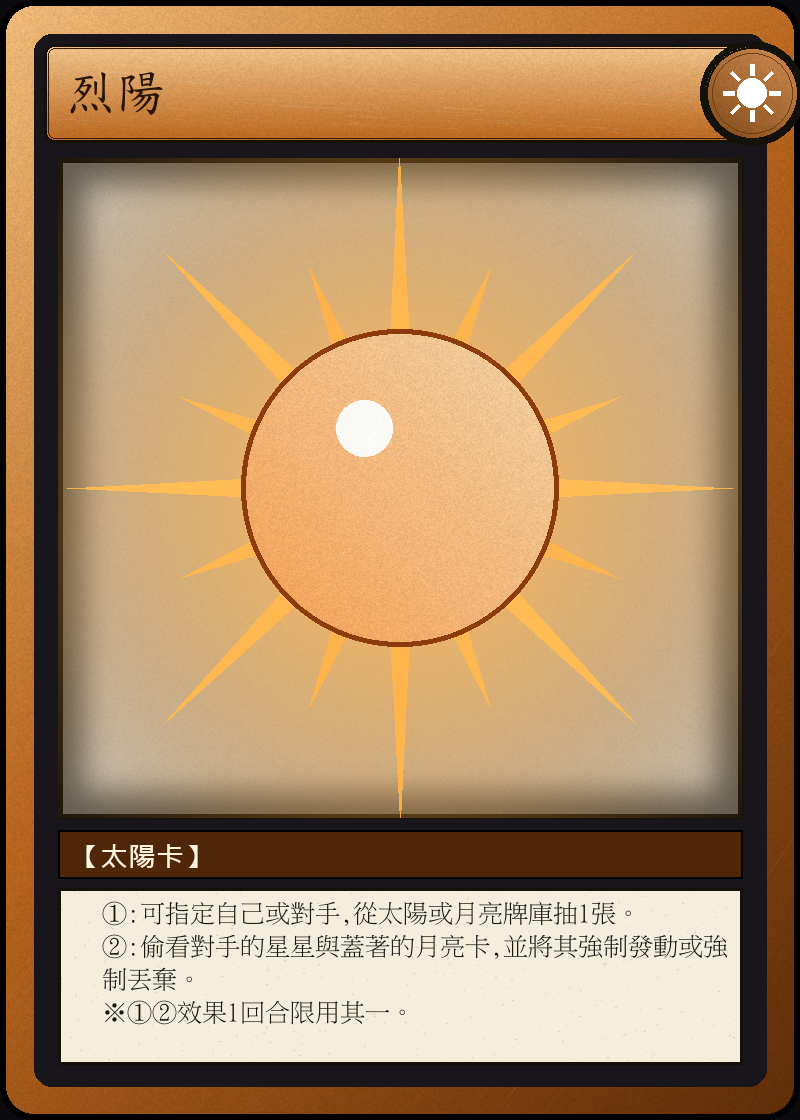
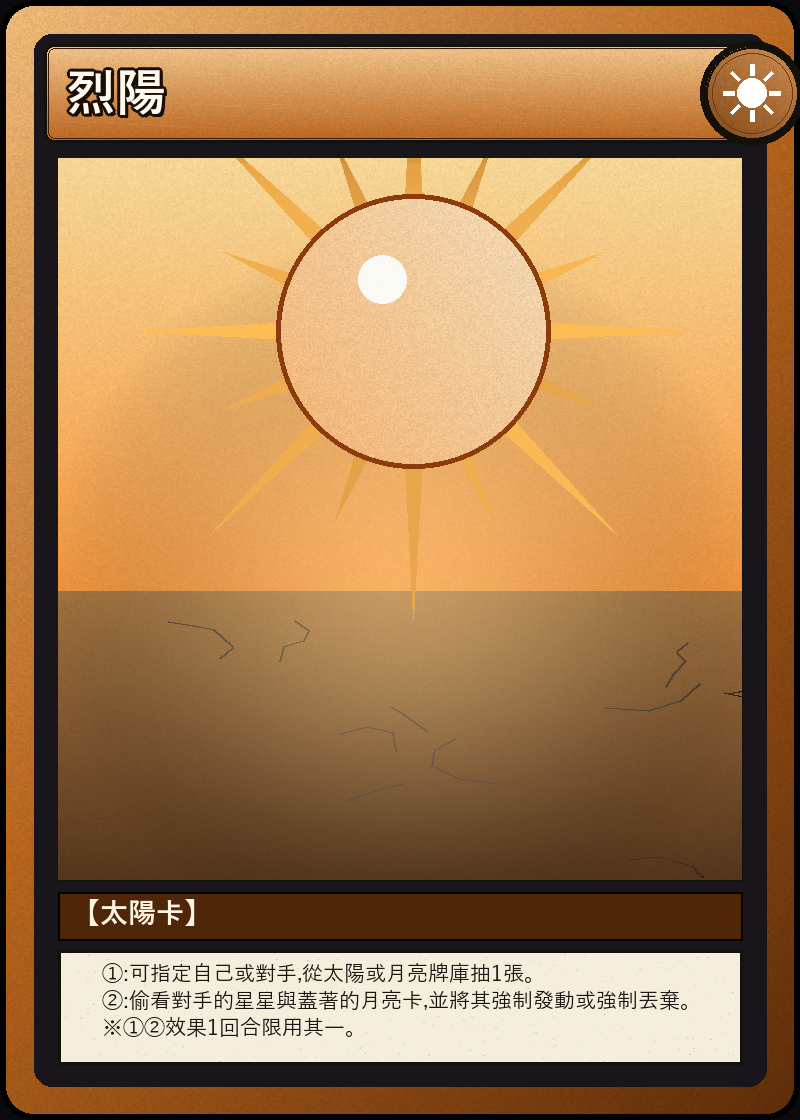
星星蓋牌照先後攻順序演出,卡牌美術第三輪大改:材質、字體、插畫全部重新設計
【出牌順序】
- 星星蓋牌改成真的照先攻/後攻順序進行(原本永遠是 p1 先蓋、跟先後攻無關),
  電腦先攻蓋星星卡時會先秀「OOO(難度)的回合」橫幅、演示蓋牌動畫,才輪到玩家蓋牌
- boardSnapshotFor 新增 starCommitted 是非旗標(只公開有沒有蓋牌,不洩漏蓋了什麼),
  取代原本「等我自己蓋牌才顯示對手蓋著」的錯誤 proxy 判斷

【卡牌效果文字精簡】(rules.js / rps_core.py / cardgen.py 三處同步)
- 石頭布剪刀只寫贏什麼,不寫輸/平
- 太陽升級卡拿掉贏平輸的括號說明跟「種類不符返回手牌」的細節
- 月亮卡拿掉「需事先蓋放」的說明(月亮卡規則本來就是要蓋放才能發動)

【卡牌美術第三輪】
- 邊框/名條/圓標改用拉絲金屬材質(雜訊+拉絲紋理),卡名疊描邊+陰影做成遊戲 Logo 式處理,
  取代原本的標楷體/細明體/正黑體,改用 Yu Gothic
- 石頭拿掉奇怪的玻璃高光;布/鈦合金布改成柔軟垂墜的布料輪廓,鈦合金額外加銳利硬邊;
  剪刀改成斜角開闔的帥氣姿勢;殞石頭改成從宇宙墜落、拖著大氣摩擦火焰的隕石場景;
  烈陽改成天空+太陽+乾裂大地的場景;日蝕沿用同一場景但加上咬向太陽的漫畫式霸氣狼頭剪影;
  偷變石頭改成驚喜箱彈出彈簧拳頭;偷變剪刀/布維持魔術師的手,加上袖口、火花、偷變布加煙霧
- 卡背拿掉所有文字(含 Logo 字樣),月亮卡背維持新月圖示,星星/太陽卡背徽章同步套用材質處理
- 整體遊戲畫面加強質感:背景加微光暈染、按鈕改立體漸層、面板加邊框陰影、回合數改徽章樣式

diff --git a/web/app.js b/web/app.js
@@ -186,6 +186,9 @@ function boardSnapshotFor(p, revealStar) {
     discardCount: p.discard.length,
     playedSun: p.playedSunCards.slice(),
     star: revealStar ? p.committedStar : null,
+    // 只公開「這回合已經蓋牌了嗎」的是非值,不洩漏蓋了什麼,讓對手畫面能正確演出
+    // 先攻方先把星星卡蓋到檯面上、後攻方才輪到蓋牌的順序
+    starCommitted: p.committedStar !== null,
     playedMoon: p.moonDecided ? p.playedMoonCard : null,
     moonPending: !p.moonDecided && p.pendingMoonCard !== null,
   };
@@ -358,17 +361,26 @@ function showCoinFlip(pub) {
   setTimeout(() => { overlay.classList.add("hidden"); }, 1850);
 }
 
-// 第 2 回合以後,先攻方逐回合輪替,用一個輕量橫幅提醒是誰先出牌(第 1 回合已經有硬幣動畫負責這件事)
-function showTurnOrderBanner(pub) {
-  if (typeof pub.firstIsP1 !== "boolean") return;
-  const firstName = pub.firstIsP1 ? pub.p1.name : pub.p2.name;
+const DIFF_LABEL = { easy: "簡單", normal: "普通", hard: "困難" };
+
+// 電腦先攻蓋星星卡時:先秀「OOO(難度)的回合」橫幅,橫幅收起後再演示一張牌背從對手那側
+// 飛到戰場星星欄位的蓋牌動畫,玩家才能實際看到電腦先出牌這件事,而不是畫面毫無變化
+function showOpponentStarSetTurn(pub, oppKey, oppCol) {
+  const name = pub[oppKey].name;
+  const diffLabel = (typeof game !== "undefined" && game && game.vsAi) ? (DIFF_LABEL[game.difficulty] || "") : "";
   const banner = document.createElement("div");
   banner.className = "turn-order-banner";
-  banner.textContent = `${firstName} 先攻`;
+  banner.textContent = diffLabel ? `${name}(${diffLabel})的回合` : `${name}的回合`;
   document.body.appendChild(banner);
   nextPaint(() => banner.classList.add("show"));
-  setTimeout(() => banner.classList.remove("show"), 750);
-  setTimeout(() => banner.remove(), 1050);
+  setTimeout(() => banner.classList.remove("show"), 500);
+  setTimeout(() => {
+    banner.remove();
+    const oppBand = $("oppBand");
+    const fromEl = (oppBand && oppBand.querySelector(".band-name")) || oppBand;
+    const starWrap = oppCol.querySelector('[data-slot-kind="star"]');
+    flyGhost(fromEl, starWrap, cardImgSrc("back_star"), "?");
+  }, 650);
 }
 
 // -- 戰鬥畫面特效:翻牌、太陽強化、月亮發動、勝負對撞 -----------------
@@ -382,10 +394,10 @@ function sleep(ms) {
 // 每行 log 之後都停一下讓畫面有時間播動畫,關鍵劇情點(開場硬幣、翻牌、出招、發動、抽牌、分出勝負)停久一點
 function delayForLogLine(text) {
   if (/^\n===== 第 1 回合 =====/.test(text)) return 1900; // 等開場硬幣動畫播完
-  if (/^\n===== 第 \d+ 回合 =====/.test(text)) return 900; // 等「OOO 先攻」橫幅播完
   let extra = 0;
   if (/^★ .+ 贏得本回合!$/.test(text) || /^平手!/.test(text)) extra = 550;
   else if (/取走 .+ 的一張『.+』星星卡。/.test(text)) extra = 600; // 星星被吸走的動畫要多留一點時間
+  else if (/ 蓋下星星卡。$/.test(text)) extra = 950; // 電腦先攻蓋星星卡:橫幅 + 蓋牌動畫要多留時間播完
   else if (/揭示星星:/.test(text)) extra = 200;
   else if (/打出太陽卡:/.test(text) || /打出【烈陽】!$/.test(text)) extra = 500; // 對手出牌會有飛入動畫,留多一點時間播完
   else if (/發動【.+】/.test(text)) extra = 500;
@@ -706,13 +718,18 @@ function triggerBattleEffects(prevPub, pub, oppKey, mineKey) {
   const sunImg = (col) => col.querySelector('[data-slot-kind="sun"] .slot-card-img');
   const moonImg = (col) => col.querySelector('[data-slot-kind="moon"] .slot-card-img');
 
-  // 0) 每回合開始:先攻方逐回合輪替,但太陽/月亮階段沒有牌可出時完全不會有任何畫面差異,
-  // 玩家會誤以為「後攻方才是第一個動作的人」。開場第 1 回合已經有硬幣動畫負責這件事,
-  // 這裡補上第 2 回合以後、每回合都要播一次的輕量橫幅,把先攻方明確秀出來。
-  for (const line of newLines) {
-    const roundMatch = line.match(/^\n===== 第 (\d+) 回合 =====/);
-    if (roundMatch && roundMatch[1] !== "1") {
-      showTurnOrderBanner(pub);
+  // 0) 對手(電腦)先攻蓋星星卡時,engine.js 會多印一行「OOO 蓋下星星卡。」,
+  // 藉此撥放「OOO(難度)的回合」橫幅 + 蓋牌動畫,玩家才能實際看到電腦先出牌,
+  // 而不是畫面上什麼都沒發生、直接跳到自己的出牌提示。自己出牌是靠互動提示本身就看得出來,不需要橫幅。
+  // 電腦(vsAi 模式的 p2)每回合的星星都是走 AI 分支、都會印這行 log,不管這回合是不是真的先攻,
+  // 所以一定要另外檢查 firstIsP1 確認「這次真的是對手先出手」,不然會不分先後攻每回合都誤觸發。
+  const oppIsFirst = (oppKey === "p1") === pub.firstIsP1;
+  if (oppIsFirst) {
+    for (const line of newLines) {
+      const setMatch = line.match(/^(.+) 蓋下星星卡。$/);
+      if (setMatch && setMatch[1] === pub[oppKey].name) {
+        showOpponentStarSetTurn(pub, oppKey, oppCol);
+      }
     }
   }
 
@@ -1165,14 +1182,11 @@ function showCardInfo(cardName) {
 function renderBattlefield(pub, oppKey, mineKey) {
   const bf = $("battlefield");
   bf.innerHTML = "";
-  // 星星是雙方同時蓋牌:在我自己都還沒蓋星星卡之前,對手欄位不該顯示「已經蓋著一張」,
-  // 不然不管先後攻,看起來都像對手已經搶先出牌了
-  const myStarCommitted = !!(lastPrivateSeen && lastPrivateSeen.committedStar);
-  bf.appendChild(battlefieldColumn(pub[oppKey], true, pub.starsRevealed, null, myStarCommitted));
-  bf.appendChild(battlefieldColumn(pub[mineKey], false, pub.starsRevealed, lastPrivateSeen, myStarCommitted));
+  bf.appendChild(battlefieldColumn(pub[oppKey], true, pub.starsRevealed, null));
+  bf.appendChild(battlefieldColumn(pub[mineKey], false, pub.starsRevealed, lastPrivateSeen));
 }
 
-function battlefieldColumn(snapshot, isOpp, starsRevealed, privateData, myStarCommitted) {
+function battlefieldColumn(snapshot, isOpp, starsRevealed, privateData) {
   const col = document.createElement("div");
   col.className = "bf-col";
   if (!snapshot) return col;
@@ -1197,8 +1211,9 @@ function battlefieldColumn(snapshot, isOpp, starsRevealed, privateData, myStarCo
   if (isOpp) {
     if (starsRevealed) {
       starContent = snapshot.star || null;
-    } else if (myStarCommitted) {
-      // 我自己蓋好星星卡了,對手那格才跟著顯示「蓋著」,在那之前維持空白
+    } else if (snapshot.starCommitted) {
+      // 對手自己真的已經蓋牌了才顯示「蓋著」,這個旗標只公開是非值、不洩漏蓋了什麼,
+      // 讓畫面能正確反映先攻/後攻順序(先攻方會先出現蓋著的星星卡)
       starContent = "?";
       starBack = true;
     }

diff --git a/web/style.css b/web/style.css
@@ -18,7 +18,11 @@ html, body { height: 100%; }
 
 body {
   margin: 0;
-  background: var(--bg);
+  background:
+    radial-gradient(ellipse 60% 40% at 15% 0%, rgba(59,110,165,0.16), transparent 60%),
+    radial-gradient(ellipse 55% 35% at 100% 15%, rgba(201,107,31,0.14), transparent 60%),
+    radial-gradient(ellipse 60% 45% at 50% 100%, rgba(106,63,160,0.14), transparent 60%),
+    var(--bg);
   color: var(--text);
   font-family: "Microsoft JhengHei", "PingFang TC", sans-serif;
 }
@@ -76,15 +80,20 @@ h1 { margin-bottom: 0; }
 .diff-buttons button { flex: 1; min-width: 60px; }
 
 button {
-  background: var(--accent);
+  background: linear-gradient(180deg, color-mix(in srgb, var(--accent) 100%, white 22%), var(--accent) 60%, color-mix(in srgb, var(--accent) 100%, black 25%));
   color: white;
-  border: none;
-  border-radius: 6px;
+  border: 1px solid rgba(0,0,0,0.35);
+  border-radius: 8px;
   padding: 10px 16px;
   font-size: 14px;
+  font-weight: bold;
+  text-shadow: 0 1px 2px rgba(0,0,0,0.5);
+  box-shadow: 0 2px 0 rgba(0,0,0,0.35), 0 3px 8px rgba(0,0,0,0.35), inset 0 1px 0 rgba(255,255,255,0.25);
   cursor: pointer;
+  transition: transform 0.08s ease, box-shadow 0.08s ease, filter 0.15s ease;
 }
-button:hover { filter: brightness(1.1); }
+button:hover { filter: brightness(1.08); }
+button:active { transform: translateY(1px); box-shadow: 0 1px 0 rgba(0,0,0,0.35), 0 2px 5px rgba(0,0,0,0.35), inset 0 1px 0 rgba(255,255,255,0.25); }
 
 .link-btn {
   background: none;
@@ -118,7 +127,16 @@ button:hover { filter: brightness(1.1); }
 }
 .topbar-btns { display: flex; gap: 6px; }
 #topBar button { padding: 5px 9px; font-size: 12px; }
-#topBar #statusText { font-size: 12.5px; }
+#topBar #statusText {
+  font-size: 12.5px;
+  font-weight: bold;
+  padding: 4px 12px;
+  border-radius: 999px;
+  background: linear-gradient(180deg, rgba(255,211,92,0.22), rgba(255,211,92,0.06));
+  border: 1px solid rgba(255,211,92,0.45);
+  color: #ffd35c;
+  text-shadow: 0 1px 2px rgba(0,0,0,0.5);
+}
 @media (max-width: 420px) {
   #topBar .dim { display: none; }
 }
@@ -144,10 +162,23 @@ button:hover { filter: brightness(1.1); }
   background-blend-mode: multiply;
   padding: 3px 8px;
   flex: 0 0 auto;
+  border-radius: 8px;
+  border: 1px solid rgba(255,255,255,0.06);
+  box-shadow: 0 2px 6px rgba(0,0,0,0.35), inset 0 1px 0 rgba(255,255,255,0.05);
 }
-.band.bf { background-color: var(--band-mid); }
+.band.bf {
+  background-color: var(--band-mid);
+  border-color: rgba(255,211,92,0.18);
+}
 
-.band-name { font-weight: bold; font-size: 12px; margin-bottom: 2px; }
+.band-name {
+  font-weight: bold;
+  font-size: 12px;
+  margin-bottom: 2px;
+  display: inline-block;
+  padding-bottom: 1px;
+  border-bottom: 2px solid rgba(255,211,92,0.5);
+}
 
 .hand {
   display: flex;
@@ -184,9 +215,10 @@ button:hover { filter: brightness(1.1); }
   display: flex;
   align-items: flex-end;
   justify-content: center;
-  border: 1px solid rgba(255,255,255,0.08);
+  border: 1px solid rgba(255,255,255,0.09);
   border-radius: 8px;
-  background: rgba(255,255,255,0.03);
+  background: linear-gradient(180deg, rgba(255,255,255,0.05), rgba(255,255,255,0.015));
+  box-shadow: inset 0 1px 2px rgba(0,0,0,0.25);
   padding: 3px 2px 2px;
 }
 #oppBand .panel-grid { gap: 3px; margin-bottom: 3px; }

diff --git a/web/rules.js b/web/rules.js
@@ -53,29 +53,23 @@ function cardKind(name) {
 }
 
 const CARD_EFFECTS = {
-  "石頭": "贏剪刀,輸布,平石頭。",
-  "布": "贏石頭,輸剪刀,平布。",
-  "剪刀": "贏布,輸石頭,平剪刀。",
-  "殞石頭":
-    "①:本回合出示的星星為「石頭」時可以發動,使其升級為殞石頭" +
-    "(贏 石頭/剪刀/雷射剪刀,平 布,輸 鈦合金布)。種類不符時,此卡直接返回手牌。",
-  "雷射剪刀":
-    "①:本回合出示的星星為「剪刀」時可以發動,使其升級為雷射剪刀" +
-    "(贏 剪刀/布/鈦合金布,平 石頭,輸 殞石頭)。種類不符時,此卡直接返回手牌。",
-  "鈦合金布":
-    "①:本回合出示的星星為「布」時可以發動,使其升級為鈦合金布" +
-    "(贏 布/石頭/殞石頭,平 剪刀,輸 雷射剪刀)。種類不符時,此卡直接返回手牌。",
+  "石頭": "可以贏剪刀。",
+  "布": "可以贏石頭。",
+  "剪刀": "可以贏布。",
+  "殞石頭": "①:本回合星星為「石頭」時可以發動,升級為殞石頭。",
+  "雷射剪刀": "①:本回合星星為「剪刀」時可以發動,升級為雷射剪刀。",
+  "鈦合金布": "①:本回合星星為「布」時可以發動,升級為鈦合金布。",
   "烈陽":
     "①:可指定自己或對手,從太陽或月亮牌庫抽1張。\n" +
     "②:偷看對手的星星與蓋著的月亮卡,並將其強制發動或強制丟棄。\n" +
     "※①②效果1回合限用其一。",
-  "偷變石頭": "①:此卡需事先蓋放。可以發動,將自己本回合的星星變更為「石頭」。",
-  "偷變剪刀": "①:此卡需事先蓋放。可以發動,將自己本回合的星星變更為「剪刀」。",
-  "偷變布": "①:此卡需事先蓋放。可以發動,將自己本回合的星星變更為「布」。",
+  "偷變石頭": "①:可以發動,將自己本回合的星星變更為「石頭」。",
+  "偷變剪刀": "①:可以發動,將自己本回合的星星變更為「剪刀」。",
+  "偷變布": "①:可以發動,將自己本回合的星星變更為「布」。",
   "日蝕":
-    "①:對手發動烈陽時,此卡已蓋放可發動。使其無效並丟棄," +
+    "①:對手發動烈陽時可發動,使其無效並丟棄," +
     "指定自己或對手抽2張(太陽/月亮牌庫自由選)。\n" +
-    "②:此卡蓋放後可發動,使對手太陽卡效果無效。\n" +
+    "②:可發動,使對手太陽卡效果無效。\n" +
     "※①②效果1回合限用其一。",
 };
 

diff --git a/web/engine.js b/web/engine.js
@@ -215,7 +215,15 @@ class Game {
   async pickStar(player) {
     const available = STAR_TYPES.filter((t) => player.stars[t] > 0);
     if (!available.length) return null;
-    if (this.isAiControlled(player)) return this.aiChooseStar(player, available);
+    if (this.isAiControlled(player)) {
+      const choice = this.aiChooseStar(player, available);
+      // 先把狀態寫回去,log() 觸發的畫面重繪才看得到「已經蓋牌」,UI 才能演出電腦蓋星星卡的動畫。
+      // 這行 log 只在電腦「真的先攻」時才印:電腦後攻蓋牌不需要額外橫幅動畫,也不該多停頓那段時間。
+      player.committedStar = choice;
+      const isFirst = player === (this.firstIsP1 ? this.p1 : this.p2);
+      if (isFirst) await this.ui.log(`${player.name} 蓋下星星卡。`);
+      return choice;
+    }
     const choice = await this.ui.ask(player.role, "出星星卡(蓋牌)",
       "選擇這回合的星星牌(對方看不到)",
       available.map((t) => ({ label: `${t}(剩${player.stars[t]}張)`, value: t })), "star",
@@ -504,8 +512,10 @@ class Game {
 
     await this.ui.log(`\n===== 第 ${this.roundNum} 回合 ===== (先攻:${pFirst.name})`);
 
-    this.p1.committedStar = await this.pickStar(this.p1);
-    this.p2.committedStar = await this.pickStar(this.p2);
+    // 星星蓋牌照先攻/後攻順序進行(蓋牌本身不洩漏牌面內容,只是「誰先蓋」這件事要跟真實出牌順序一致),
+    // 這樣畫面才能正確演出「先攻方先把星星卡蓋到檯面上,再輪到後攻方」
+    pFirst.committedStar = await this.pickStar(pFirst);
+    pSecond.committedStar = await this.pickStar(pSecond);
 
     this.p1.pendingMoonCard = await this.pickMoonCommit(this.p1);
     this.p2.pendingMoonCard = await this.pickMoonCommit(this.p2);

diff --git a/web/index.html b/web/index.html
@@ -4,7 +4,7 @@
 <meta charset="UTF-8">
 <meta name="viewport" content="width=device-width, initial-scale=1.0, maximum-scale=1.0, viewport-fit=cover">
 <title>猜☆拳☆王</title>
-<link rel="stylesheet" href="style.css?v=13">
+<link rel="stylesheet" href="style.css?v=15">
 </head>
 <body>
 
@@ -112,9 +112,9 @@
 <script src="firebase-config.js"></script>
 <!-- ?v= 是手動版本號,每次改動 rules.js/engine.js/net.js/app.js/style.css 就要遞增,
      避免玩家瀏覽器快取到部署前的舊版程式碼、看不到最新的修正 -->
-<script src="rules.js?v=13"></script>
-<script src="engine.js?v=13"></script>
-<script src="net.js?v=13"></script>
-<script src="app.js?v=13"></script>
+<script src="rules.js?v=15"></script>
+<script src="engine.js?v=15"></script>
+<script src="net.js?v=15"></script>
+<script src="app.js?v=15"></script>
 </body>
 </html>

diff --git a/rps_core.py b/rps_core.py
@@ -59,33 +59,24 @@ def card_kind(name):
 
 
 CARD_EFFECTS = {
-    "石頭": "贏剪刀,輸布,平石頭。",
-    "布": "贏石頭,輸剪刀,平布。",
-    "剪刀": "贏布,輸石頭,平剪刀。",
-    "殞石頭": (
-        "①:本回合出示的星星為「石頭」時可以發動,使其升級為殞石頭"
-        "(贏 石頭/剪刀/雷射剪刀,平 布,輸 鈦合金布)。種類不符時,此卡直接返回手牌。"
-    ),
-    "雷射剪刀": (
-        "①:本回合出示的星星為「剪刀」時可以發動,使其升級為雷射剪刀"
-        "(贏 剪刀/布/鈦合金布,平 石頭,輸 殞石頭)。種類不符時,此卡直接返回手牌。"
-    ),
-    "鈦合金布": (
-        "①:本回合出示的星星為「布」時可以發動,使其升級為鈦合金布"
-        "(贏 布/石頭/殞石頭,平 剪刀,輸 雷射剪刀)。種類不符時,此卡直接返回手牌。"
-    ),
+    "石頭": "可以贏剪刀。",
+    "布": "可以贏石頭。",
+    "剪刀": "可以贏布。",
+    "殞石頭": "①:本回合星星為「石頭」時可以發動,升級為殞石頭。",
+    "雷射剪刀": "①:本回合星星為「剪刀」時可以發動,升級為雷射剪刀。",
+    "鈦合金布": "①:本回合星星為「布」時可以發動,升級為鈦合金布。",
     "烈陽": (
         "①:可指定自己或對手,從太陽或月亮牌庫抽1張。\n"
         "②:偷看對手的星星與蓋著的月亮卡,並將其強制發動或強制丟棄。\n"
         "※①②效果1回合限用其一。"
     ),
-    "偷變石頭": "①:此卡需事先蓋放。可以發動,將自己本回合的星星變更為「石頭」。",
-    "偷變剪刀": "①:此卡需事先蓋放。可以發動,將自己本回合的星星變更為「剪刀」。",
-    "偷變布": "①:此卡需事先蓋放。可以發動,將自己本回合的星星變更為「布」。",
+    "偷變石頭": "①:可以發動,將自己本回合的星星變更為「石頭」。",
+    "偷變剪刀": "①:可以發動,將自己本回合的星星變更為「剪刀」。",
+    "偷變布": "①:可以發動,將自己本回合的星星變更為「布」。",
     "日蝕": (
-        "①:對手發動烈陽時,此卡已蓋放可發動。使其無效並丟棄,"
+        "①:對手發動烈陽時可發動,使其無效並丟棄,"
         "指定自己或對手抽2張(太陽/月亮牌庫自由選)。\n"
-        "②:此卡蓋放後可發動,使對手太陽卡效果無效。\n"
+        "②:可發動,使對手太陽卡效果無效。\n"
         "※①②效果1回合限用其一。"
     ),
 }
